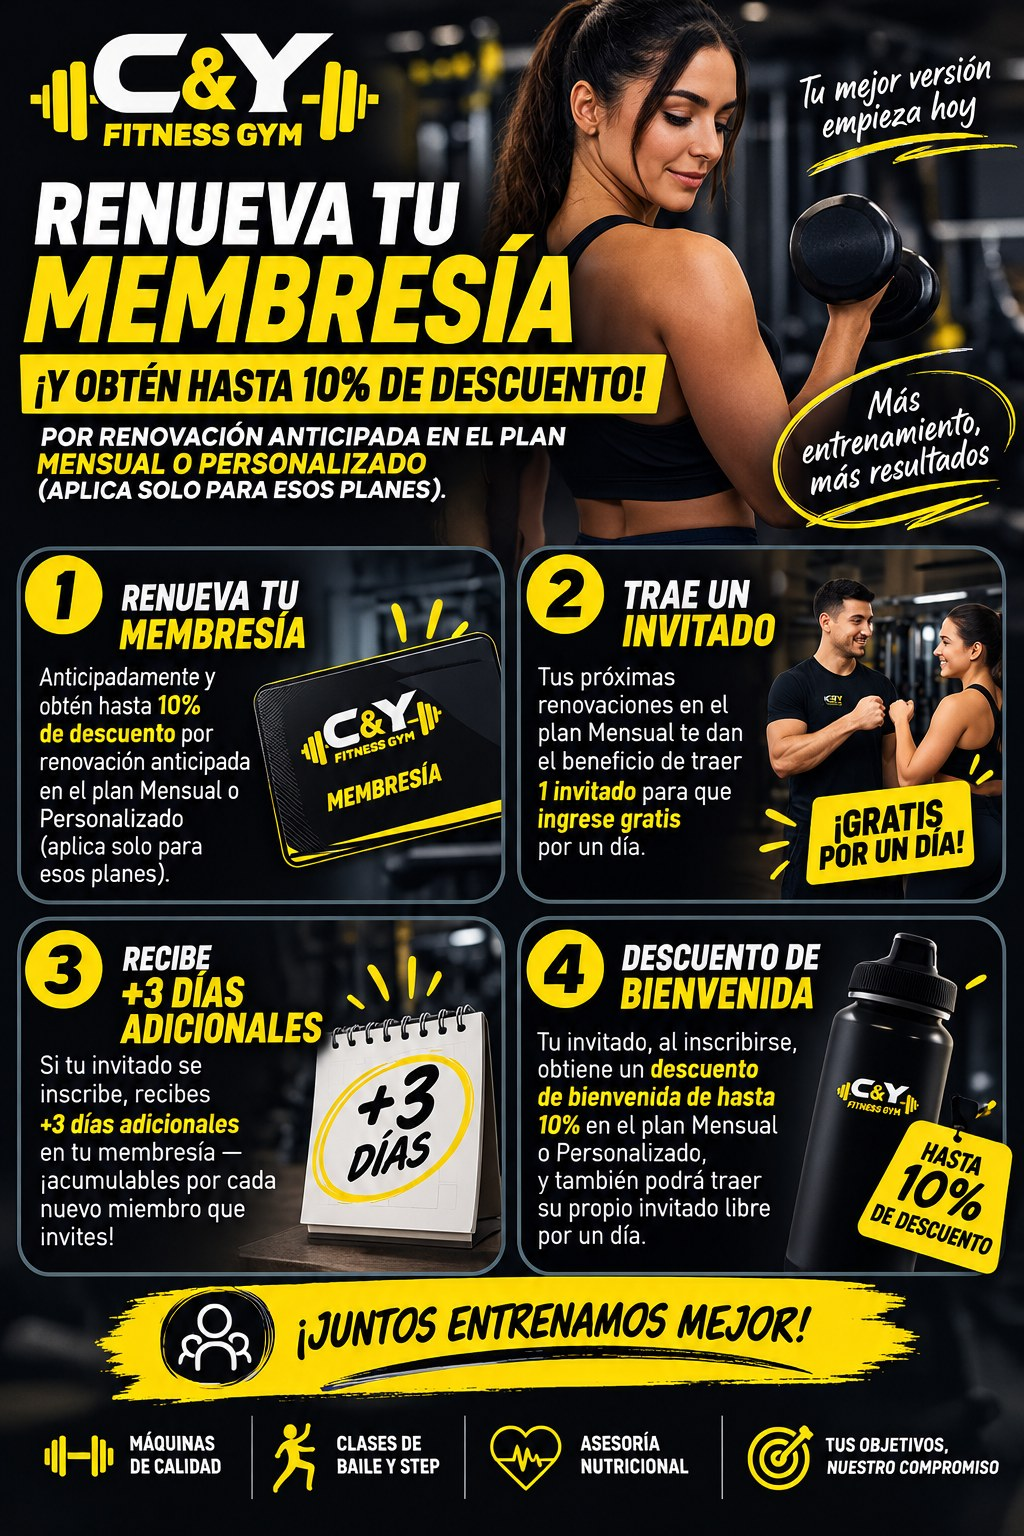
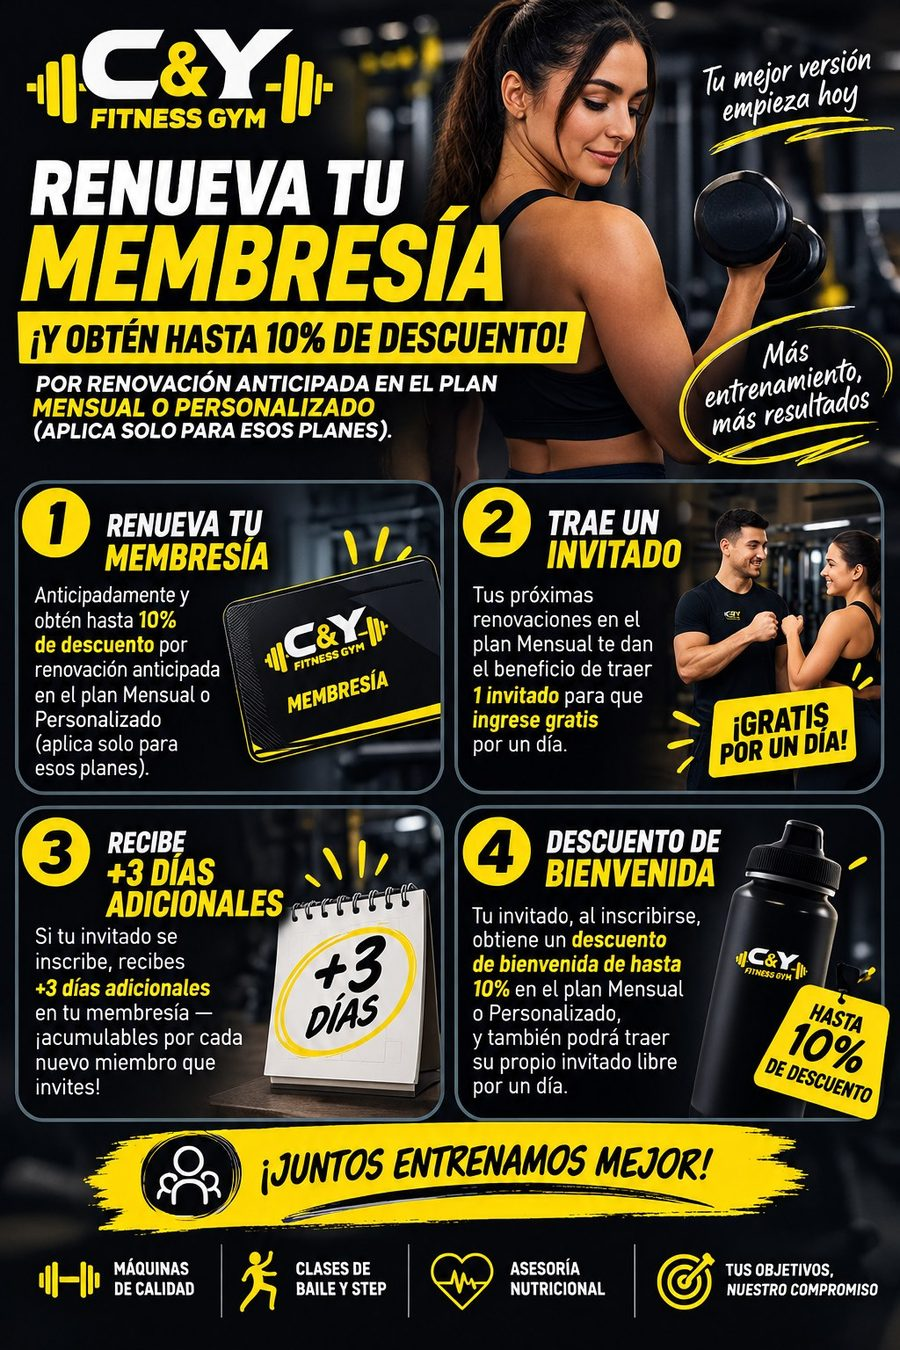
Imágenes de catálogo y promo más livianas (900 px, ~100-290 KB) para que carguen en celular; caché v191
Claude-Session: https://claude.ai/code/session_01M5RjrHhJd7nCrSbvohcxi3

diff --git a/sw.js b/sw.js
@@ -30,7 +30,7 @@
 // vieja y toma la nueva automáticamente.
 // ============================================================
 
-const CACHE_NAME = 'cy-fitness-gym-v190';
+const CACHE_NAME = 'cy-fitness-gym-v191';
 
 // Dominios externos de los que es seguro guardar copia (son archivos estáticos:
 // librerías, íconos, fuentes, fotos — nunca datos de socios). Cualquier petición
